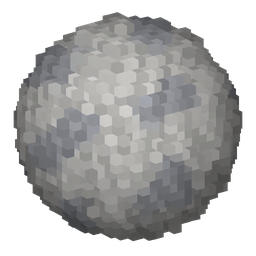
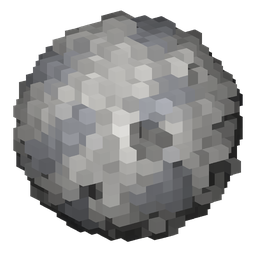
Add bounded native chart controls and refine interface contrast

diff --git a/src/main/java/dev/astralreach/hytale/OrbitalMapPage.java b/src/main/java/dev/astralreach/hytale/OrbitalMapPage.java
@@ -3,17 +3,8 @@ import com.hypixel.hytale.codec.*;
 import com.hypixel.hytale.codec.builder.BuilderCodec;
 import com.hypixel.hytale.component.*;
 import com.hypixel.hytale.protocol.packets.interface_.*;
-import com.hypixel.hytale.protocol.*;
-import com.hypixel.hytale.component.system.EntityEventSystem;
-import com.hypixel.hytale.component.query.Query;
-import com.hypixel.hytale.server.core.event.events.player.PlayerMouseButtonEvent;
-import com.hypixel.hytale.server.core.event.events.player.PlayerMouseMotionEvent;
-import com.hypixel.hytale.server.core.event.events.ecs.InventorySetActiveSlotEvent;
-import com.hypixel.hytale.server.core.inventory.InventoryComponent;
-import com.hypixel.hytale.server.core.modules.entity.tracker.NetworkId;
 import com.hypixel.hytale.server.core.entity.entities.Player;
 import com.hypixel.hytale.server.core.entity.entities.player.pages.InteractiveCustomUIPage;
-import com.hypixel.hytale.server.core.entity.entities.player.hud.CustomUIHud;
 import com.hypixel.hytale.server.core.ui.builder.*;
 import com.hypixel.hytale.server.core.universe.PlayerRef;
 import com.hypixel.hytale.server.core.universe.world.storage.EntityStore;
@@ -31,49 +22,40 @@ final class OrbitalMapPage extends InteractiveCustomUIPage<OrbitalMapPage.Action
   "Nacre",new Body("Frozen ocean","","Lithium","","Cryolite","Deep Space suit","Pressure Hull · future route"),
   "Vesper",new Body("Cloudlands","","Iridium","","Sulfur","Deep Space suit","Cryogenic Drive · future route"),
   "Umbra",new Body("Outer moon","","Aetherium","","Void quartz","Deep Space suit","Radiation Core · future route"));
- private static final String HUD="AstralReach.Map";
- private static final class Session{final Store<EntityStore> store;final PlayerRef player;OrbitalScene scene;final byte originalSlot;boolean dragging,loggedMotion,dragMoved,threeD;String selected="Lune";double dragged;int pressTarget=-1,lastSlot;long watchAt;org.joml.Vector3i pressPlane;Session(Store<EntityStore>s,PlayerRef p){store=s;player=p;var bar=s.getComponent(p.getReference(),InventoryComponent.Hotbar.getComponentType());originalSlot=bar==null?s.getComponent(p.getReference(),Player.getComponentType()).getInventory().getActiveHotbarSlot():bar.getActiveSlot();lastSlot=originalSlot;}}
+ private static final List<String> VIEW_ACTIONS=List.of("PanLeft","PanUp","PanDown","PanRight","ZoomOut","ZoomIn","Fit");
+ private static final Map<String,int[]> POINTS=Map.of("Orbis",new int[]{200,255,126},"Lune",new int[]{350,295,62},"Rustreach",new int[]{385,150,86},"Nacre",new int[]{360,400,90},"Vesper",new int[]{200,445,94},"Umbra",new int[]{490,460,84});
+ private static final class Session{
+  final Store<EntityStore> store;final PlayerRef player;final dev.astralreach.core.ChartViewport viewport=new dev.astralreach.core.ChartViewport();String selected="Lune";
+  Session(Store<EntityStore>s,PlayerRef p){store=s;player=p;}
+ }
  private static final Map<UUID,Session> viewing=new java.util.concurrent.ConcurrentHashMap<>();
- private final Session session;private String selected;private boolean sceneHandoff;private long refreshAt;
+ private final Session session;private String selected;private long refreshAt;
  OrbitalMapPage(Session session,String selected){super(session.player,CustomPageLifetime.CanDismiss,Action.CODEC);this.session=session;this.selected=selected;}
  static boolean viewing(UUID id){return viewing.containsKey(id);}
- static boolean threeD(UUID id){var session=viewing.get(id);return session!=null&&session.threeD;}
+ static boolean threeD(UUID id){return false;}
  static void open(Store<EntityStore>s,Ref<EntityStore>r,PlayerRef p){
   if(!SpaceFlight.inOrbit(s,r)){AstralReachPlugin.message(p,"Navigation becomes available after reaching space.");return;}
-  var player=s.getComponent(r,Player.getComponentType());if(player==null)return;var session=viewing.get(p.getUuid());
-  if(session==null){session=new Session(s,p);viewing.put(p.getUuid(),session);}showDestinations(session,session.selected);
+  if(s.getComponent(r,Player.getComponentType())==null)return;
+  var session=viewing.computeIfAbsent(p.getUuid(),id->new Session(s,p));showDestinations(session,session.selected);
  }
  private static void showDestinations(Session session,String body){
   var r=session.player.getReference();if(r==null||!r.isValid()||r.getStore()!=session.store||!SpaceFlight.inOrbit(session.store,r))return;
-  session.threeD=false;session.selected=body;var player=session.store.getComponent(r,Player.getComponentType());player.getHudManager().removeCustomHud(session.player,HUD);
-  if(session.scene!=null){session.scene.close();session.scene=null;}player.getPageManager().openCustomPage(r,session.store,new OrbitalMapPage(session,body));
+  session.selected=body;var player=session.store.getComponent(r,Player.getComponentType());player.getPageManager().openCustomPage(r,session.store,new OrbitalMapPage(session,body));
  }
- static void route(Store<EntityStore>s,Ref<EntityStore>r,PlayerRef p,String name){String body=ORDER.stream().filter(v->v.equalsIgnoreCase(name)).findFirst().orElse(null);if(body==null){AstralReachPlugin.message(p,"Choose Orbis, Lune, Rustreach, Nacre, Vesper or Umbra.");return;}if(!SpaceFlight.inOrbit(s,r)){AstralReachPlugin.message(p,"Navigation becomes available after reaching space.");return;}var session=viewing.get(p.getUuid());if(session==null){session=new Session(s,p);viewing.put(p.getUuid(),session);}showDestinations(session,body);}
- private static void stop(Session session){if(!viewing.remove(session.player.getUuid(),session))return;var world=session.store.getExternalData().getWorld();var scene=session.scene;session.scene=null;if(scene!=null){if(world.isInThread())scene.close();else world.execute(scene::close);}var r=session.player.getReference();if(r!=null&&r.isValid()){var current=r.getStore();Runnable remove=()->{if(!r.isValid()||r.getStore()!=current)return;var player=current.getComponent(r,Player.getComponentType());if(player!=null){player.getHudManager().removeCustomHud(session.player,HUD);var bar=current.getComponent(r,InventoryComponent.Hotbar.getComponentType());if(bar!=null&&session.originalSlot>=0&&session.originalSlot<bar.getInventory().getCapacity()&&bar.getActiveSlot()!=session.originalSlot){bar.setActiveSlot(session.originalSlot,r,current);session.player.getPacketHandler().writeNoCache(new com.hypixel.hytale.protocol.packets.inventory.SetActiveSlot(bar.getSectionId(),session.originalSlot));}}};if(current.getExternalData().getWorld().isInThread())remove.run();else current.getExternalData().getWorld().execute(remove);}}
+ static void route(Store<EntityStore>s,Ref<EntityStore>r,PlayerRef p,String name){
+  String body=ORDER.stream().filter(v->v.equalsIgnoreCase(name)).findFirst().orElse(null);
+  if(body==null){AstralReachPlugin.message(p,"Choose Orbis, Lune, Rustreach, Nacre, Vesper or Umbra.");return;}
+  if(!SpaceFlight.inOrbit(s,r)){AstralReachPlugin.message(p,"Navigation becomes available after reaching space.");return;}
+  var session=viewing.computeIfAbsent(p.getUuid(),id->new Session(s,p));showDestinations(session,body);
+ }
+ private static void stop(Session session){viewing.remove(session.player.getUuid(),session);}
  static void close(PlayerRef p){var session=viewing.get(p.getUuid());if(session!=null)stop(session);}
- static void cleanup(Store<EntityStore>s){for(var session:new ArrayList<>(viewing.values()))if(session.store==s){var r=session.player.getReference();if(r==null||!r.isValid()||r.getStore()!=s||!SpaceFlight.inOrbit(s,r)){stop(session);continue;}long now=System.nanoTime();if(now-session.watchAt<75_000_000L||active(r)==null)continue;session.watchAt=now;var player=s.getComponent(r,Player.getComponentType());if(player!=null){var inv=player.getInventory();observeSlot(session,inv.getActiveHotbarSlot(),inv.getHotbar().getCapacity());}}}
- private static void observeSlot(Session session,int next,int count){int previous=session.lastSlot;session.lastSlot=next;if(next==previous||next<0||next>=count||previous<0||previous>=count)return;int delta=Math.floorMod(next-previous+count/2,count)-count/2;if(Math.abs(delta)==1){session.scene.zoom=Math.clamp(session.scene.zoom+delta*7,32,130);session.scene.view();System.out.println("AR_MAP_SCROLL step="+delta);}}
-
- private static Session active(Ref<EntityStore>r){if(r==null||!r.isValid())return null;var s=r.getStore();var p=s.getComponent(r,PlayerRef.getComponentType());if(p==null)return null;var session=viewing.get(p.getUuid());if(session==null||session.store!=s||!SpaceFlight.inOrbit(s,r))return null;var player=s.getComponent(r,Player.getComponentType());return session.threeD&&session.scene!=null&&player!=null&&player.getPageManager().getCustomPage()==null?session:null;}
- static void button(PlayerMouseButtonEvent e){var r=e.getPlayerRef();var session=active(r);if(session==null)return;e.setCancelled(true);var button=e.getMouseButton();if(button==null)return;System.out.println("AR_MAP_BUTTON "+button.mouseButtonType+" "+button.state+" screen="+e.getScreenPoint()+" plane="+e.getTargetBlock());boolean pressed=button.state==MouseButtonState.Pressed;
-  if(pressed&&button.mouseButtonType==MouseButtonType.Right){showDestinations(session,session.selected);return;}if(pressed&&button.mouseButtonType==MouseButtonType.Middle){session.scene.reset();return;}if(button.mouseButtonType!=MouseButtonType.Left)return;
-  int target=-1;var hit=e.getTargetEntityRef();if(hit!=null&&hit.isValid()){var id=session.store.getComponent(hit,NetworkId.getComponentType());if(id!=null)target=id.getId();}
-  if(pressed){session.dragging=true;session.dragMoved=false;session.dragged=0;session.pressTarget=target;session.pressPlane=e.getTargetBlock()==null?null:new org.joml.Vector3i(e.getTargetBlock());return;}
-  // Some client input paths report only button endpoints. Preserve actual drag semantics there.
-  if(session.dragging&&!session.dragMoved&&session.pressPlane!=null&&e.getTargetBlock()!=null){double dx=e.getTargetBlock().x-session.pressPlane.x,dz=e.getTargetBlock().z-session.pressPlane.z;session.dragged=Math.hypot(dx,dz)*12;if(session.dragged>=5)session.scene.dragPlane(dx,dz);}
-  if(session.dragging&&session.dragged<5){String body=session.scene.hit(target>=0?target:session.pressTarget);if(body==null)body=session.scene.hitPlane(e.getTargetBlock());if(BODIES.containsKey(body==null?"":body)){showDestinations(session,body);}}
-  session.dragging=false;
- }
- static void motion(PlayerMouseMotionEvent e){var session=active(e.getPlayerRef());if(session==null)return;e.setCancelled(true);var m=e.getMouseMotion();if(!session.loggedMotion){session.loggedMotion=true;System.out.println("AR_MAP_MOTION native plane="+e.getTargetBlock()+" screen="+e.getScreenPoint());}if(!session.dragging)return;
-  if(session.pressPlane!=null&&e.getTargetBlock()!=null){double dx=e.getTargetBlock().x-session.pressPlane.x,dz=e.getTargetBlock().z-session.pressPlane.z;if(dx!=0||dz!=0){session.dragMoved=true;session.dragged+=Math.hypot(dx,dz)*12;session.scene.dragPlane(dx,dz);}return;}
-  if(m==null||m.relativeMotion==null)return;double dx=Math.clamp(m.relativeMotion.x,-300,300),dy=Math.clamp(m.relativeMotion.y,-300,300);if(dx!=0||dy!=0){session.dragMoved=true;session.dragged+=Math.hypot(dx,dy);session.scene.drag(dx,dy);}
- }
-
- /** Observe actual native slot changes; the hidden held slot is restored after map closure. */
- static final class Wheel extends EntityEventSystem<EntityStore,InventorySetActiveSlotEvent>{
-  Wheel(){super(InventorySetActiveSlotEvent.class);}@Override public Query<EntityStore>getQuery(){return PlayerRef.getComponentType();}
-  @Override public void handle(int i,ArchetypeChunk<EntityStore>c,Store<EntityStore>s,CommandBuffer<EntityStore>b,InventorySetActiveSlotEvent e){var p=c.getComponent(i,PlayerRef.getComponentType());if(p==null||!viewing.containsKey(p.getUuid()))return;var session=active(c.getReferenceTo(i));var hotbar=c.getComponent(i,InventoryComponent.Hotbar.getComponentType());System.out.println("AR_MAP_SLOT section="+e.getInventorySectionId()+" previous="+e.getPreviousSlot()+" next="+e.getNewSlot()+" active="+(session!=null)+" hotbar="+(hotbar!=null));if(session==null||hotbar==null||e.getInventorySectionId()!=hotbar.getSectionId())return;int count=hotbar.getInventory().getCapacity(),next=e.getNewSlot(),previous=e.getPreviousSlot();if(next<0||next>=count||previous<0||previous>=count)return;observeSlot(session,next,count);}
-
+ static void cleanup(Store<EntityStore>s){for(var session:new ArrayList<>(viewing.values()))if(session.store==s){var r=session.player.getReference();if(r==null||!r.isValid()||r.getStore()!=s||!SpaceFlight.inOrbit(s,r))stop(session);}}
+ private static void place(UICommandBuilder c,String id,int x,int y,int width,int height){var a=new com.hypixel.hytale.server.core.ui.Anchor();a.setLeft(com.hypixel.hytale.server.core.ui.Value.of(x));a.setTop(com.hypixel.hytale.server.core.ui.Value.of(y));a.setWidth(com.hypixel.hytale.server.core.ui.Value.of(width));a.setHeight(com.hypixel.hytale.server.core.ui.Value.of(height));c.setObject(id+".Anchor",a);}
+ private void chart(UICommandBuilder c){
+  var v=session.viewport;place(c,"#ChartCanvas",v.left(),v.top(),v.scaled(640),v.scaled(614));
+  for(String name:ORDER){int[] p=POINTS.get(name);int size=v.scaled(p[2]);place(c,"#Planet"+name,v.scaled(p[0]),v.scaled(p[1]),size+18,size+32);place(c,"#Ring"+name,0,0,size+6,size+6);place(c,"#Glyph"+name,3,3,size,size);place(c,"#PlanetLabel"+name,2,size+7,size+30,25);}
+  c.set("#ZoomLevel.Text",v.percent()+"%");c.set("#ZoomIn.Disabled",!v.canZoomIn());c.set("#ZoomOut.Disabled",!v.canZoomOut());c.set("#Fit.Disabled",!v.moved());for(String id:List.of("PanLeft","PanUp","PanDown","PanRight"))c.set("#"+id+".Disabled",!v.canZoomOut());
  }
  private void labels(Ref<EntityStore>r,UICommandBuilder c,Store<EntityStore>s){
   var body=BODIES.get(selected);var f=s.getComponent(r,AstralReachPlugin.flightType);var p=s.getComponent(r,Player.getComponentType());int tier=ExpeditionSuit.tier(s,r);double oxygen=OxygenCanisters.total(p.getInventory().getCombinedStorageHotbarBackpack());
@@ -85,23 +67,25 @@ final class OrbitalMapPage extends InteractiveCustomUIPage<OrbitalMapPage.Action
   int reserve=f!=null&&f.trip!=null?f.trip.returnUnits():0;c.set("#Reserve.Text",NativeUi.number(reserve)+" units protected");c.set("#Flight.Text","In orbit · "+(f==null?"Vehicle":f.plan.title));
   boolean available=dev.astralreach.core.DestinationAccess.canTravel(selected,f!=null&&f.trip!=null&&reserve>0,tier);c.set("#Travel.Text",selected.equals("Orbis")?"Return to Orbis":selected.equals("Lune")?"Land on Lune":"Route unavailable");c.set("#Travel.Disabled",!available);
   for(String name:ORDER){boolean active=name.equals(selected);c.set("#Chosen"+name+".Visible",active);c.set("#Ring"+name+".Visible",active);c.set("#Preview"+name+".Visible",active);c.set("#Mini"+name+".Visible",active);}
+  chart(c);
  }
  @Override public void build(Ref<EntityStore>r,UICommandBuilder c,UIEventBuilder e,Store<EntityStore>s){
   c.append("Pages/AstralReach/OrbitalMap.ui");labels(r,c,s);NativeUi.cue(s,playerRef);
   for(String body:ORDER)for(String prefix:List.of("Route","Planet"))e.addEventBinding(CustomUIEventBindingType.Activating,"#"+prefix+body,EventData.of("Action","Select:"+body),false);
-  for(String id:List.of("Travel","Close"))e.addEventBinding(CustomUIEventBindingType.Activating,"#"+id,EventData.of("Action",id),false);
+  for(String id:List.of("Travel","Close","PanLeft","PanUp","PanDown","PanRight","ZoomOut","ZoomIn","Fit"))e.addEventBinding(CustomUIEventBindingType.Activating,"#"+id,EventData.of("Action",id),false);
  }
  @Override public void handleDataEvent(Ref<EntityStore>r,Store<EntityStore>s,Action action){s.getExternalData().getWorld().execute(()->{
   if(!r.isValid()||r.getStore()!=s||viewing.get(playerRef.getUuid())!=session||!SpaceFlight.inOrbit(s,r))return;var player=s.getComponent(r,Player.getComponentType());if(player==null||player.getPageManager().getCustomPage()!=this)return;
   String a=action.action;if(a.equals("Close")){stop(session);close();return;}
-  if(a.startsWith("Select:")){String body=a.substring(7);if(!BODIES.containsKey(body)||body.equals(selected))return;selected=body;session.selected=body;if(session.scene!=null)session.scene.select(body);NativeUi.cue(s,playerRef);var c=new UICommandBuilder();labels(r,c,s);sendUpdate(c,false);return;}
+  if(VIEW_ACTIONS.contains(a)&&session.viewport.action(a)){NativeUi.cue(s,playerRef);var c=new UICommandBuilder();chart(c);sendUpdate(c,false);return;}
+  if(a.startsWith("Select:")){String body=a.substring(7);if(!BODIES.containsKey(body)||body.equals(selected))return;selected=body;session.selected=body;NativeUi.cue(s,playerRef);var c=new UICommandBuilder();labels(r,c,s);sendUpdate(c,false);return;}
   if(!a.equals("Travel")||!selected.equals("Lune")&&!selected.equals("Orbis"))return;
   try{if(selected.equals("Lune"))ExpeditionSuit.require(s,r,1);}catch(IllegalArgumentException ex){AstralReachPlugin.message(playerRef,ex.getMessage());return;}
   NativeUi.cue(s,playerRef);stop(session);close();if(selected.equals("Lune"))RocketService.chooseLune(s,r,playerRef);else RocketService.returnHome(s,r,playerRef);
  });}
  void refresh(Ref<EntityStore>r,Store<EntityStore>s){long now=System.nanoTime();if(now-refreshAt<1_000_000_000L)return;refreshAt=now;var c=new UICommandBuilder();labels(r,c,s);sendUpdate(c,false);}
- @Override public void onDismiss(Ref<EntityStore>r,Store<EntityStore>s){if(!sceneHandoff&&viewing.get(playerRef.getUuid())==session)s.getExternalData().getWorld().execute(()->{
-  if(viewing.get(playerRef.getUuid())!=session||session.threeD||!r.isValid()||r.getStore()!=s)return;
+ @Override public void onDismiss(Ref<EntityStore>r,Store<EntityStore>s){if(viewing.get(playerRef.getUuid())==session)s.getExternalData().getWorld().execute(()->{
+  if(viewing.get(playerRef.getUuid())!=session||!r.isValid()||r.getStore()!=s)return;
   var p=s.getComponent(r,Player.getComponentType());if(p!=null&&p.getPageManager().getCustomPage() instanceof OrbitalMapPage next&&next.session==session)return;
   stop(session);
  });}

diff --git a/tools/native_ui_art.py b/tools/native_ui_art.py
@@ -9,7 +9,7 @@ PALETTES={'Sol':((238,182,65),(255,231,132)),'Orbis':((48,139,193),(107,160,73))
 # hemisphere read as a terraced disc. Light both the local face and the whole
 # sphere; vary the radial surface so latitude steps do not join into bands.
 for name,(a,b) in PALETTES.items():
- size=256;scale=3;im=Image.new('RGBA',(size*scale,size*scale));d=ImageDraw.Draw(im);faces=[];radius=12;unit=9.0
+ size=256;scale=3;im=Image.new('RGBA',(size*scale,size*scale));d=ImageDraw.Draw(im);faces=[];radius=9 if name=='Lune' else 12;unit=12.0 if name=='Lune' else 9.0
  def relief(x,y,z):
   length=math.sqrt(x*x+y*y+z*z)
   if length==0:return radius
@@ -43,7 +43,18 @@ for name,(a,b) in PALETTES.items():
    sphere=max(0,sum(normal[i]*light[i] for i in range(3)));face=max(0,dx*light[0]+dy*light[1]+dz*light[2])
    # Broad material variation and a coherent dark limb remain readable at 40px.
    brush=.94+.075*math.sin(x*1.7+y*.8+z*2.4)+.045*math.sin(x*4.1-y*2.8+z*.7)
-   shade=(.50+.65*sphere)*(.82+.25*face)*brush
+   shade=(.38+.78*sphere)*(.75+.35*face)*brush
+   if name=='Lune':
+    # Face-to-light visibility makes the crater walls cast actual broad
+    # shadows. Larger voxels preserve the selected concept's block relief
+    # when this original icon is reduced to its in-game size.
+    origin=(x+dx*.55,y+dy*.55,z+dz*.55)
+    occluded=any(tuple(round(origin[i]+light[i]*t*.65) for i in range(3)) in voxels for t in range(2,15))
+    if occluded:shade*=.59
+    for cx,cy,cz,r in [(-.40,.31,.86,.255),(.31,-.22,.925,.22),(-.80,-.30,.52,.20),(.26,.76,.60,.15),(.68,.30,.67,.14),(-.13,-.72,.68,.135)]:
+     cl=math.sqrt(cx*cx+cy*cy+cz*cz);distance=math.sqrt(sum((normal[i]-v/cl)**2 for i,v in enumerate((cx,cy,cz))))/r
+     if distance<.86:shade*=.46+.35*distance
+     elif distance<1.18:shade*=1.12
    if name=='Sol':shade=.91+.15*sphere+.04*math.sin(x+y+z)
    color=tuple(min(255,max(0,int(c*shade))) for c in color)+(255,)
    faces.append((sum(q[2] for q in p)/4,[(q[0],q[1]) for q in p],color))
@@ -66,8 +77,8 @@ def panel(name,top,bottom,edge='#476780',cut=3):
   # A section heading is a strip inside its enclosing frame, not another box.
   d=ImageDraw.Draw(im);d.rectangle((0,0,w-1,h-1),outline=top,width=3);d.line((0,h-1,w-1,h-1),fill=edge,width=1)
  im.save(R/name)
-for args in [('WindowPatch.png','#102236','#091522','#54758e'),('PanelPatch.png','#0e2030','#091722','#3b617e'),('TitleHeader.png','#1d3c60','#102a46','#5d7d9b'),('SectionHeader.png','#162f47','#10283c','#355e7d'),('Row.png','#112333','#0b1b29','#315572'),('RowHovered.png','#17323e','#0c2734','#75bcc6'),('RowPressed.png','#10232d','#0b1b24','#5fadb8'),('ControlPrimary.png','#125d9f','#0b3b70','#719dba'),('ControlPrimary_Hovered.png','#2372b5','#104c82','#9bc8df'),('ControlPrimary_Pressed.png','#104f81','#092f54','#5889a6'),('ControlSecondary.png','#354353','#253243','#7c90a3'),('ControlSecondary_Hovered.png','#45596d','#304457','#a3b8c9'),('ControlSecondary_Pressed.png','#25364b','#172738','#4b7895'),('ControlDisabled.png','#2b3743','#202b36','#475869')]:panel(*args)
-im=Image.new('RGBA',(64,64),(32,107,122,20));d=ImageDraw.Draw(im);d.rectangle((1,1,62,62),outline='#62d8d2',width=2);im.save(R/'SelectedFrame.png')
+for args in [('WindowPatch.png','#102236','#091522','#54758e'),('PanelPatch.png','#0e2030','#091722','#527d9a'),('TitleHeader.png','#1d3c60','#102a46','#6d97bc'),('SectionHeader.png','#193b59','#10283c','#507e9f'),('Row.png','#112333','#0b1b29','#3e6682'),('RowHovered.png','#17323e','#0c2734','#75bcc6'),('RowPressed.png','#10232d','#0b1b24','#5fadb8'),('ControlPrimary.png','#126be3','#084ba6','#74b3f4'),('ControlPrimary_Hovered.png','#258bff','#1261c4','#b1e6ff'),('ControlPrimary_Pressed.png','#0b57ae','#083b7c','#5889a6'),('ControlSecondary.png','#354353','#253243','#7c90a3'),('ControlSecondary_Hovered.png','#45596d','#304457','#a3b8c9'),('ControlSecondary_Pressed.png','#25364b','#172738','#4b7895'),('ControlDisabled.png','#2b3743','#202b36','#475869')]:panel(*args)
+im=Image.new('RGBA',(64,64),(0,170,184,38));d=ImageDraw.Draw(im);d.rectangle((1,1,62,62),outline='#16ffed',width=4);im.save(R/'SelectedFrame.png')
 im=Image.new('RGBA',(128,128));d=ImageDraw.Draw(im);d.ellipse((3,3,124,124),outline='#78e4da',width=3);im.save(R/'SelectionRing.png')
 for name,alpha in [('PlanetHover.png',45),('PlanetPressed.png',80)]:
  im=Image.new('RGBA',(192,224));d=ImageDraw.Draw(im);d.ellipse((9,9,183,183),fill=(66,166,183,alpha),outline=(105,224,222,130),width=2);im.save(R/name)
@@ -106,3 +117,4 @@ im=Image.new('RGB',(640,400),'#091622');d=ImageDraw.Draw(im);rng=random.Random(9
 for _ in range(110):
  x,y=rng.randrange(640),rng.randrange(400);d.rectangle((x,y,x+1,y+1),fill=rng.choice(['#456078','#758c9e','#29465b']))
 im.save(R/'StarField.png')
+Image.new('RGBA',(16,16),(255,255,255,255)).save(R/'ChartMask.png')

diff --git a/tools/native_ui_layouts.py b/tools/native_ui_layouts.py
@@ -276,6 +276,26 @@ s=s.replace('TexturePath: "Art/SectionHeader.png", Border: 8','TexturePath: "Art
 s=s.replace('FontName: "Secondary", FontSize: 24, RenderUppercase: false','FontName: "Default", FontSize: 24, RenderBold: false, RenderUppercase: false')
 s=s.replace('@PlanetStyle = ButtonStyle(Default: (Background: #00000000), Hovered: (Background: (TexturePath: "Art/RowHovered.png", Border: 8)), Pressed: (Background: (TexturePath: "Art/RowPressed.png", Border: 8))','@PlanetStyle = ButtonStyle(Default: (Background: #00000000), Hovered: (Background: "Art/PlanetHover.png"), Pressed: (Background: "Art/PlanetPressed.png")')
 p.write_text(s)
+
+# Framed top-down chart controls. The0.7custom-page protocol has no wheel or
+# pointer-motion binding; do not label these as direct map gestures.
+p=r/'OrbitalMap.ui';s=p.read_text()
+old='Group { Anchor: (Left: 10, Right: 10, Top: 54, Bottom: 12); Background: "Art/SystemChart.png";'
+assert old in s
+s=s.replace(old,'Group #ChartViewport { Anchor: (Left: 10, Right: 10, Top: 54, Bottom: 12); MaskTexturePath: "Art/ChartMask.png"; Group #ChartCanvas { Anchor: (Left: 0, Top: 0, Width: 640, Height: 614); Background: "Art/SystemChart.png";')
+for n in planets:
+ start=s.index('Button #Planet'+n);end=s.index('} }',start)+3
+ part=s[start:end].replace('Group { Anchor: (Left: 3,','Group #Glyph'+n+' { Anchor: (Left: 3,').replace('Label { Anchor: (Left: 2,','Label #PlanetLabel'+n+' { Anchor: (Left: 2,')
+ s=s[:start]+part+s[end:]
+end=s.index('\n} }\nGroup { Anchor: (Width: 14); }',s.index('#ChartCanvas'))
+s=s[:end]+'\n}'+s[end:]
+tools='Group { Anchor: (Left: 22, Top: 62, Width: 616, Height: 42); LayoutMode: Left;'
+for ident,label,width in [('PanLeft','←',44),('PanUp','↑',44),('PanDown','↓',44),('PanRight','→',44),('ZoomOut','−',44),('ZoomIn','+',44),('Fit','Fit',70)]:
+ tools+=f'$A.@Secondary #{ident} {{ Anchor: (Width: {width}, Height: 38); Text: "{label}"; }} Group {{ Anchor: (Width: 6); }}'
+tools+='Label #ZoomLevel { Anchor: (Width: 70, Height: 38); Text: "100%"; Style: (FontSize: 19, TextColor: #c0d9e5, VerticalAlignment: Center); } }'
+end=s.index('\n} }\nGroup { Anchor: (Width: 14); }',s.index('#ChartCanvas'))
+s=s[:end]+ '\n} '+tools+s[end+2:]
+p.write_text(s)
 for name in ['OrbitalMap.ui','LaunchYard.ui','Rocket.ui','Oxygen.ui','OxygenHud.ui','Ascent.ui']:
  p=r/name;s=p.read_text()
  s=s.replace('$A.@SectionHeader { Anchor: (Left: 6, Right: 6, Top: 6,','$A.@SectionHeader { Anchor: (Left: 2, Right: 2, Top: 2,')
@@ -317,3 +337,11 @@ for p in r.glob('*.ui'):
   return 'ItemIcon'+match.group(1)+'{'+body+' ShowItemTooltip: true; }'
  s=re.sub(r'ItemSlot(\s*(?:#[A-Za-z0-9_]+)?\s*)\{([^{}]*)\}',readonly_icon,p.read_text())
  p.write_text(s)
+
+# UI1r9: tighten the real construction summary without stretching its
+# original rocket/pad illustration or inventing structures.
+p=r/'LaunchYard.ui';s=p.read_text()
+s=s.replace('Label #Footprint { Anchor: (Height: 56);','Label #Footprint { Anchor: (Height: 40);')
+s=s.replace('Label #Blueprint { Anchor: (Height: 64);','Label #Blueprint { Anchor: (Height: 96);')
+s=s.replace('TextColor: #a8cfda, Wrap: true, VerticalAlignment: Center','TextColor: #b8e6ef, Wrap: true, VerticalAlignment: Start')
+p.write_text(s)

diff --git a/src/test/java/dev/astralreach/core/CoreTests.java b/src/test/java/dev/astralreach/core/CoreTests.java
@@ -5,6 +5,15 @@ public final class CoreTests {
  static void check(boolean b,String msg){checks++;if(!b)throw new AssertionError(msg);}
  static void reject(Runnable r,String msg){checks++;try{r.run();throw new AssertionError(msg);}catch(IllegalArgumentException|IllegalStateException expected){}}
  public static void main(String[] args){
+  var view=new ChartViewport();check(view.percent()==100&&view.left()==0&&view.top()==0,"Chart fits the original full-system composition");
+  for(int i=0;i<20;i++)view.action("ZoomIn");check(view.percent()==225&&!view.canZoomIn(),"Chart zoom is bounded even on repeated native actions");
+  for(int i=0;i<100;i++){view.action("PanLeft");view.action("PanUp");}
+  check(view.left()==0&&view.top()==0,"Chart pan cannot expose outside the upper-left image boundary");
+  for(int i=0;i<100;i++){view.action("PanRight");view.action("PanDown");}
+  check(view.left()+view.scaled(640)==640&&Math.abs(view.top()+view.scaled(614)-614)<=1,"Chart remains clipped to its lower-right boundary");
+  for(int i=0;i<20;i++)view.action("ZoomOut");check(view.left()==0&&view.top()==0&&view.percent()==100,"Zooming back to fit also clamps a previously panned view");
+  view.action("ZoomIn");view.action("PanUp");view.action("Fit");check(!view.moved()&&!view.action("Select:untrusted"),"Fit resets the chart; view controls cannot choose an invalid route");
+
   check(DestinationAccess.canTravel("Orbis",true,0),"Protected home return stays available with a missing suit or depleted oxygen");
   check(!DestinationAccess.canTravel("Lune",true,0)&&DestinationAccess.canTravel("Lune",true,1),"Lunar landing preserves its existing complete Survey suit gate");
   check(!DestinationAccess.canTravel("Orbis",false,3)&&!DestinationAccess.canTravel("Lune",false,3),"UI selection never grants an unpaid journey");

diff --git a/src/main/java/dev/astralreach/hytale/LaunchYardPage.java b/src/main/java/dev/astralreach/hytale/LaunchYardPage.java
@@ -22,7 +22,7 @@ final class LaunchYardPage extends InteractiveCustomUIPage<RocketPage.Action>{
   String blocked=LaunchYardService.data(s).blocked.get(at);
   c.set("#Status.Text",!formed?"Pad incomplete":ready?"Rocket complete":working?(blocked==null?"Building · "+(p.workedMillis()/100)+"%":"Construction paused"):y.selected?"Blueprint ready":"Choose a rocket");
   c.set("#Footprint.Text",LaunchYardService.present(s.getExternalData().getWorld(),at,y)+" of 25 modules · 25 × 25 pad · "+y.facing);
-  c.set("#Blueprint.Text",y.selected?p.plan().title+(!y.recovered.isEmpty()?" · recovered assemblies credited":""):"First expedition: Odyssey Heavy");
+  c.set("#Blueprint.Text",y.selected?p.plan().title+(!y.recovered.isEmpty()?"\nRecovered assemblies credited":""):"First expedition: Odyssey Heavy");
   c.set("#PreviewOdyssey.Visible",p.plan()==dev.astralreach.core.LaunchPlan.ODYSSEY);c.set("#PreviewKestrel.Visible",p.plan()==dev.astralreach.core.LaunchPlan.KESTREL);c.set("#Rotate.Text","Pad: "+y.facing);c.set("#Plans.Visible",!y.selected);
   var inv=s.getComponent(ref,Player.getComponentType()).getInventory().getCombinedHotbarFirst();
   int row=0;boolean anyCarried=false;for(var e:new TreeMap<>(p.plan().materials()).entrySet()){

diff --git a/src/main/java/dev/astralreach/core/ChartViewport.java b/src/main/java/dev/astralreach/core/ChartViewport.java
@@ -1,0 +1,31 @@
+package dev.astralreach.core;
+
+/** Per-open-page chart view. Never changes a journey, inventory or camera. */
+public final class ChartViewport {
+ public static final int WIDTH=640,HEIGHT=614;
+ private int level;
+ private double panX,panY;
+ public double scale(){return 1+level*.25;}
+ public int percent(){return 100+level*25;}
+ public boolean canZoomIn(){return level<5;}
+ public boolean canZoomOut(){return level>0;}
+ public boolean moved(){return level!=0||panX!=0||panY!=0;}
+ public int left(){return (int)Math.round((WIDTH-WIDTH*scale())/2+panX);}
+ public int top(){return (int)Math.round((HEIGHT-HEIGHT*scale())/2+panY);}
+ public int scaled(double value){return (int)Math.round(value*scale());}
+ public boolean action(String action){
+  switch(action){
+   case "ZoomIn" -> level=Math.min(5,level+1);
+   case "ZoomOut" -> level=Math.max(0,level-1);
+   case "PanLeft" -> panX+=64;
+   case "PanRight" -> panX-=64;
+   case "PanUp" -> panY+=64;
+   case "PanDown" -> panY-=64;
+   case "Fit" -> {level=0;panX=panY=0;}
+   default -> {return false;}
+  }
+  double x=(WIDTH*scale()-WIDTH)/2,y=(HEIGHT*scale()-HEIGHT)/2;
+  panX=Math.clamp(panX,-x,x);panY=Math.clamp(panY,-y,y);
+  return true;
+ }
+}

diff --git a/src/main/java/dev/astralreach/hytale/AstralReachPlugin.java b/src/main/java/dev/astralreach/hytale/AstralReachPlugin.java
@@ -33,10 +33,6 @@ public final class AstralReachPlugin extends JavaPlugin {
  public AstralReachPlugin(JavaPluginInit init){super(init);}
  @Override protected void setup(){
   instance=this;
-  // Native events also cover ChannelConnection transports that bypass the legacy Netty adapter.
-  getEventRegistry().register(com.hypixel.hytale.server.core.event.events.player.PlayerMouseButtonEvent.class,OrbitalMapPage::button);
-  getEventRegistry().register(com.hypixel.hytale.server.core.event.events.player.PlayerMouseMotionEvent.class,OrbitalMapPage::motion);
-  getEntityStoreRegistry().registerSystem(new OrbitalMapPage.Wheel());
   getCodecRegistry(IWorldGenProvider.CODEC).register("AstralOreWorld",OreWorldProvider.class,OreWorldProvider.CODEC);
   oxygenType=getEntityStoreRegistry().registerResource(OxygenRegistry.class,"AstralOxygenV1",OxygenRegistry.CODEC);
   rocketType=getEntityStoreRegistry().registerResource(RocketRegistry.class,"AstralRocketsV1",RocketRegistry.CODEC);
